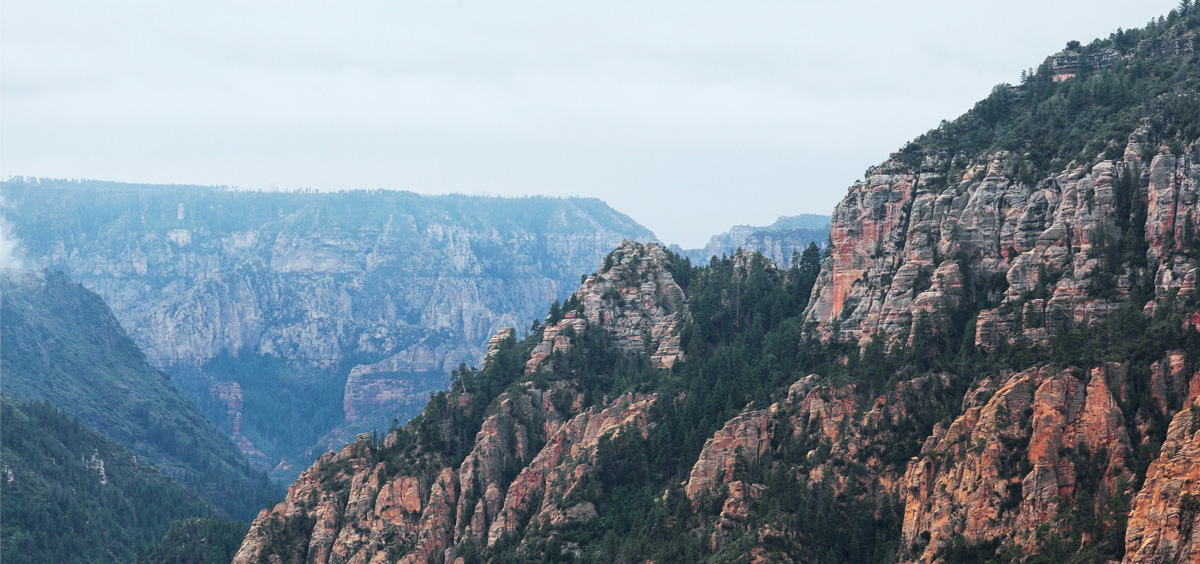
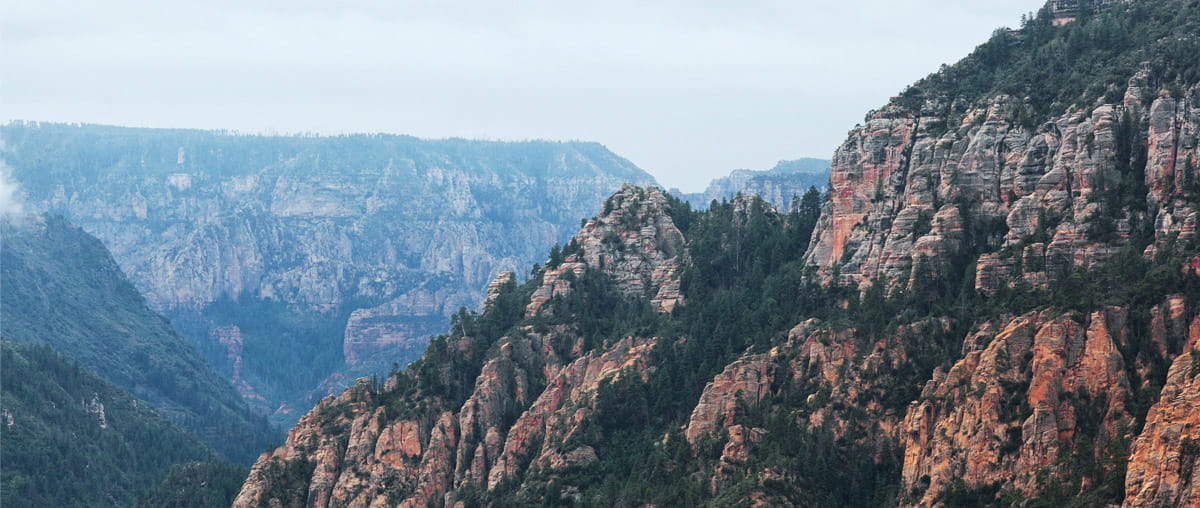
Первый экран + оптимизация графики

diff --git a/css/style.css b/css/style.css
@@ -53,13 +53,26 @@ a {
 .searching {
   text-align: center;
   background-color: #ffffff;
+  width: 1200px;
+  margin: 0 auto;
 }
 .first-screen {
-  background: #ffffff url("../img/background-1.jpg") no-repeat top center;
+  background: url("../img/intro-mask.svg") no-repeat bottom center,
+    #ffffff url("../img/background-1.jpg") no-repeat top center;
+  width: 1200px;
+  margin: 0 auto;
 }
 .advantages-title {
+  width: 440px;
   font-size: 21px;
   line-height: 26px;
+  margin: 0 auto;
+  padding-top: 61px;
+  padding-bottom: 28px;
+}
+.introduction {
+  margin: 0;
+  padding-bottom: 54px;
 }
 .advantages-item {
   color: #ffffff;
@@ -200,4 +213,10 @@ a {
   left: 50%;
   margin-left: -70px;
   z-index: 10;
+}
+.first-screen img {
+  display: block;
+  margin: 0 auto;
+  padding-top: 76px;
+  padding-bottom: 79px;
 }
